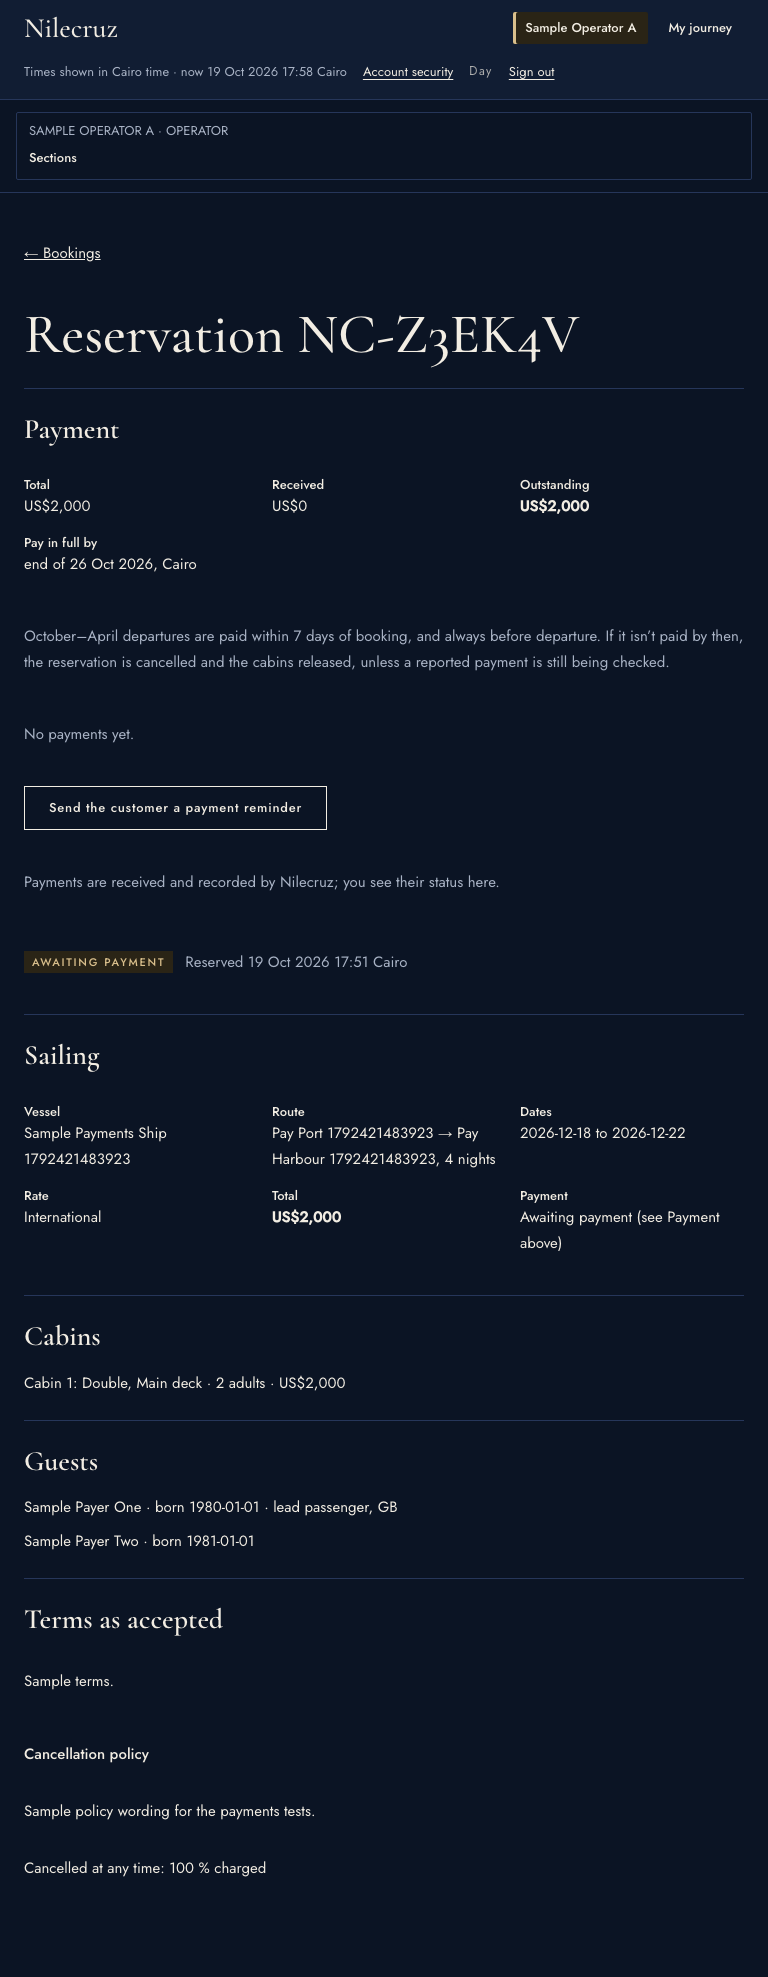
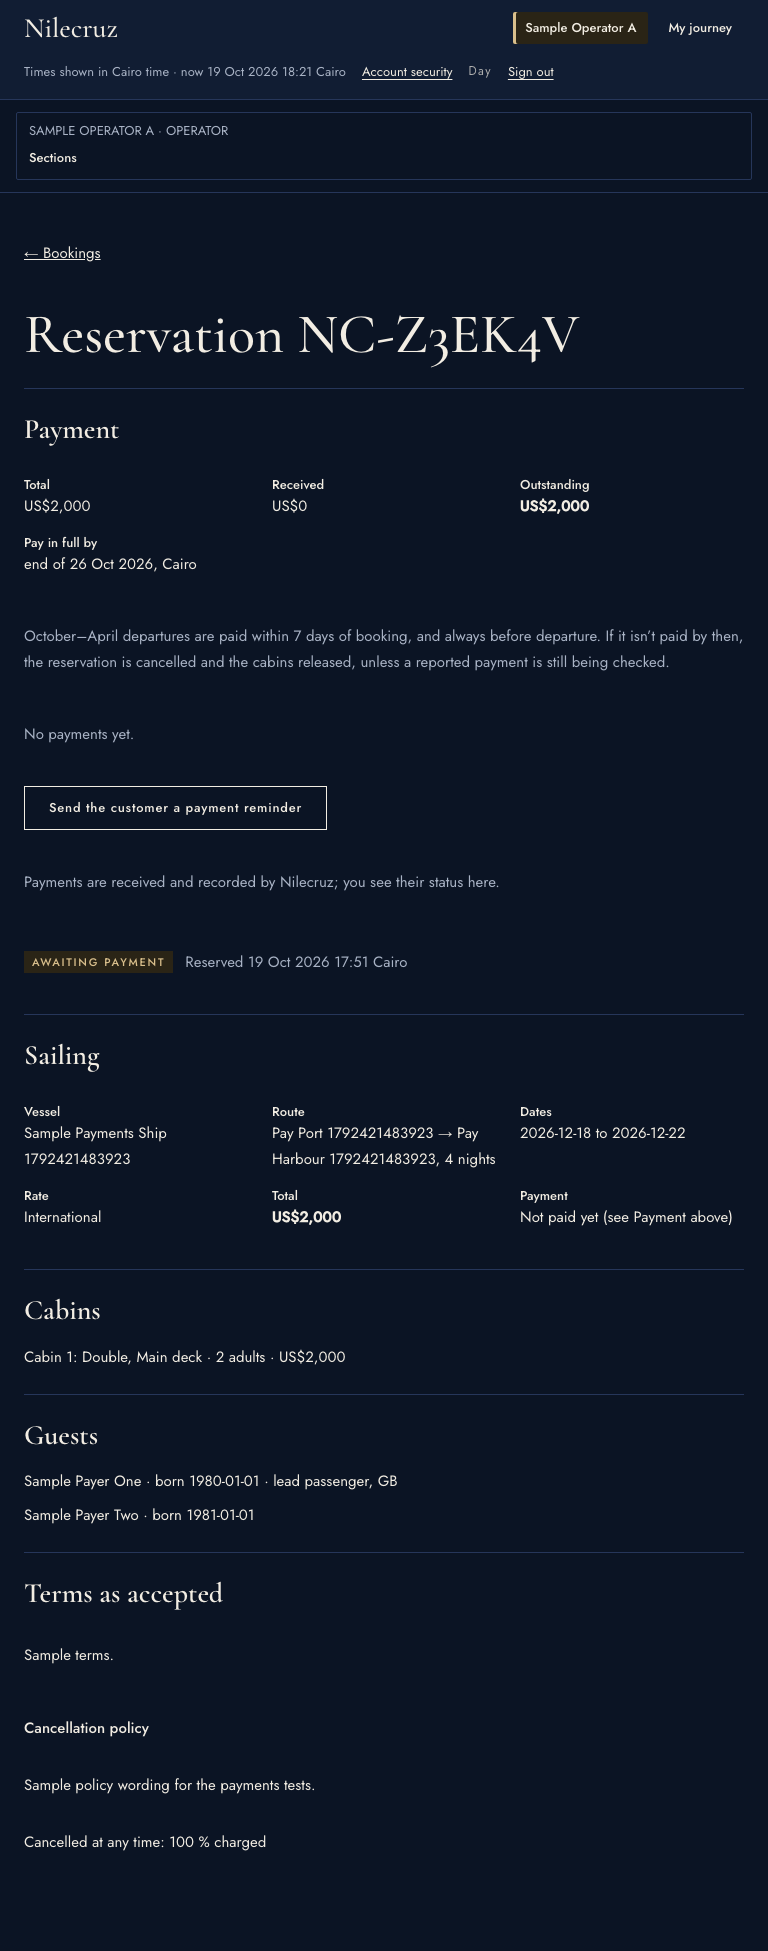
fix(bookings): unpaid line no longer repeats the Awaiting payment badge (CI: bookings.spec strict match)

diff --git a/src/app/[locale]/dashboard/_bookings/ReservationRecord.tsx b/src/app/[locale]/dashboard/_bookings/ReservationRecord.tsx
@@ -59,7 +59,7 @@ export function ReservationRecord({ r }: { r: Res }) {
           </div>
           <div>
             <dt className={ui.label}>Payment</dt>
-            <dd>{r.status === "awaiting_payment" ? "Awaiting payment (see Payment above)" : RESERVATION_BADGE[r.status].text}</dd>
+            <dd>{r.status === "awaiting_payment" ? "Not paid yet (see Payment above)" : RESERVATION_BADGE[r.status].text}</dd>
           </div>
         </dl>
         {r.gratuity_usd_minor ? (

diff --git a/docs/BUILD-LOG.md b/docs/BUILD-LOG.md
@@ -581,7 +581,7 @@
 
 - **Screenshots:** 42 in `docs/screenshots/batch-04f/`, at 375, 768 and 1440 px, Day and Night: a customer's unpaid and paid reservation and a receipt; the operator's bookings with payables, and an unpaid booking with the reminder; Deposits and commission, and an admin receipt. Fixed after review:
   - the deadline read "27 Oct 2026 00:00 Cairo", a day later than the last day to pay; it now reads "end of 26 Oct 2026, Cairo" (new unit test, winter and summer);
-  - the Sailing section still said "payment requests arrive with deadlines" under the new Payment panel; it now says "Awaiting payment (see Payment above)".
+  - the Sailing section still said "payment requests arrive with deadlines" under the new Payment panel; it now says "Not paid yet (see Payment above)".
 
 **Not verified until Faris adds Stripe test keys:** live Checkout (DATA-026, DATA-030 are "Built"). **Next:** 4f-2: cancellation and refunds, and tour orders.
 
